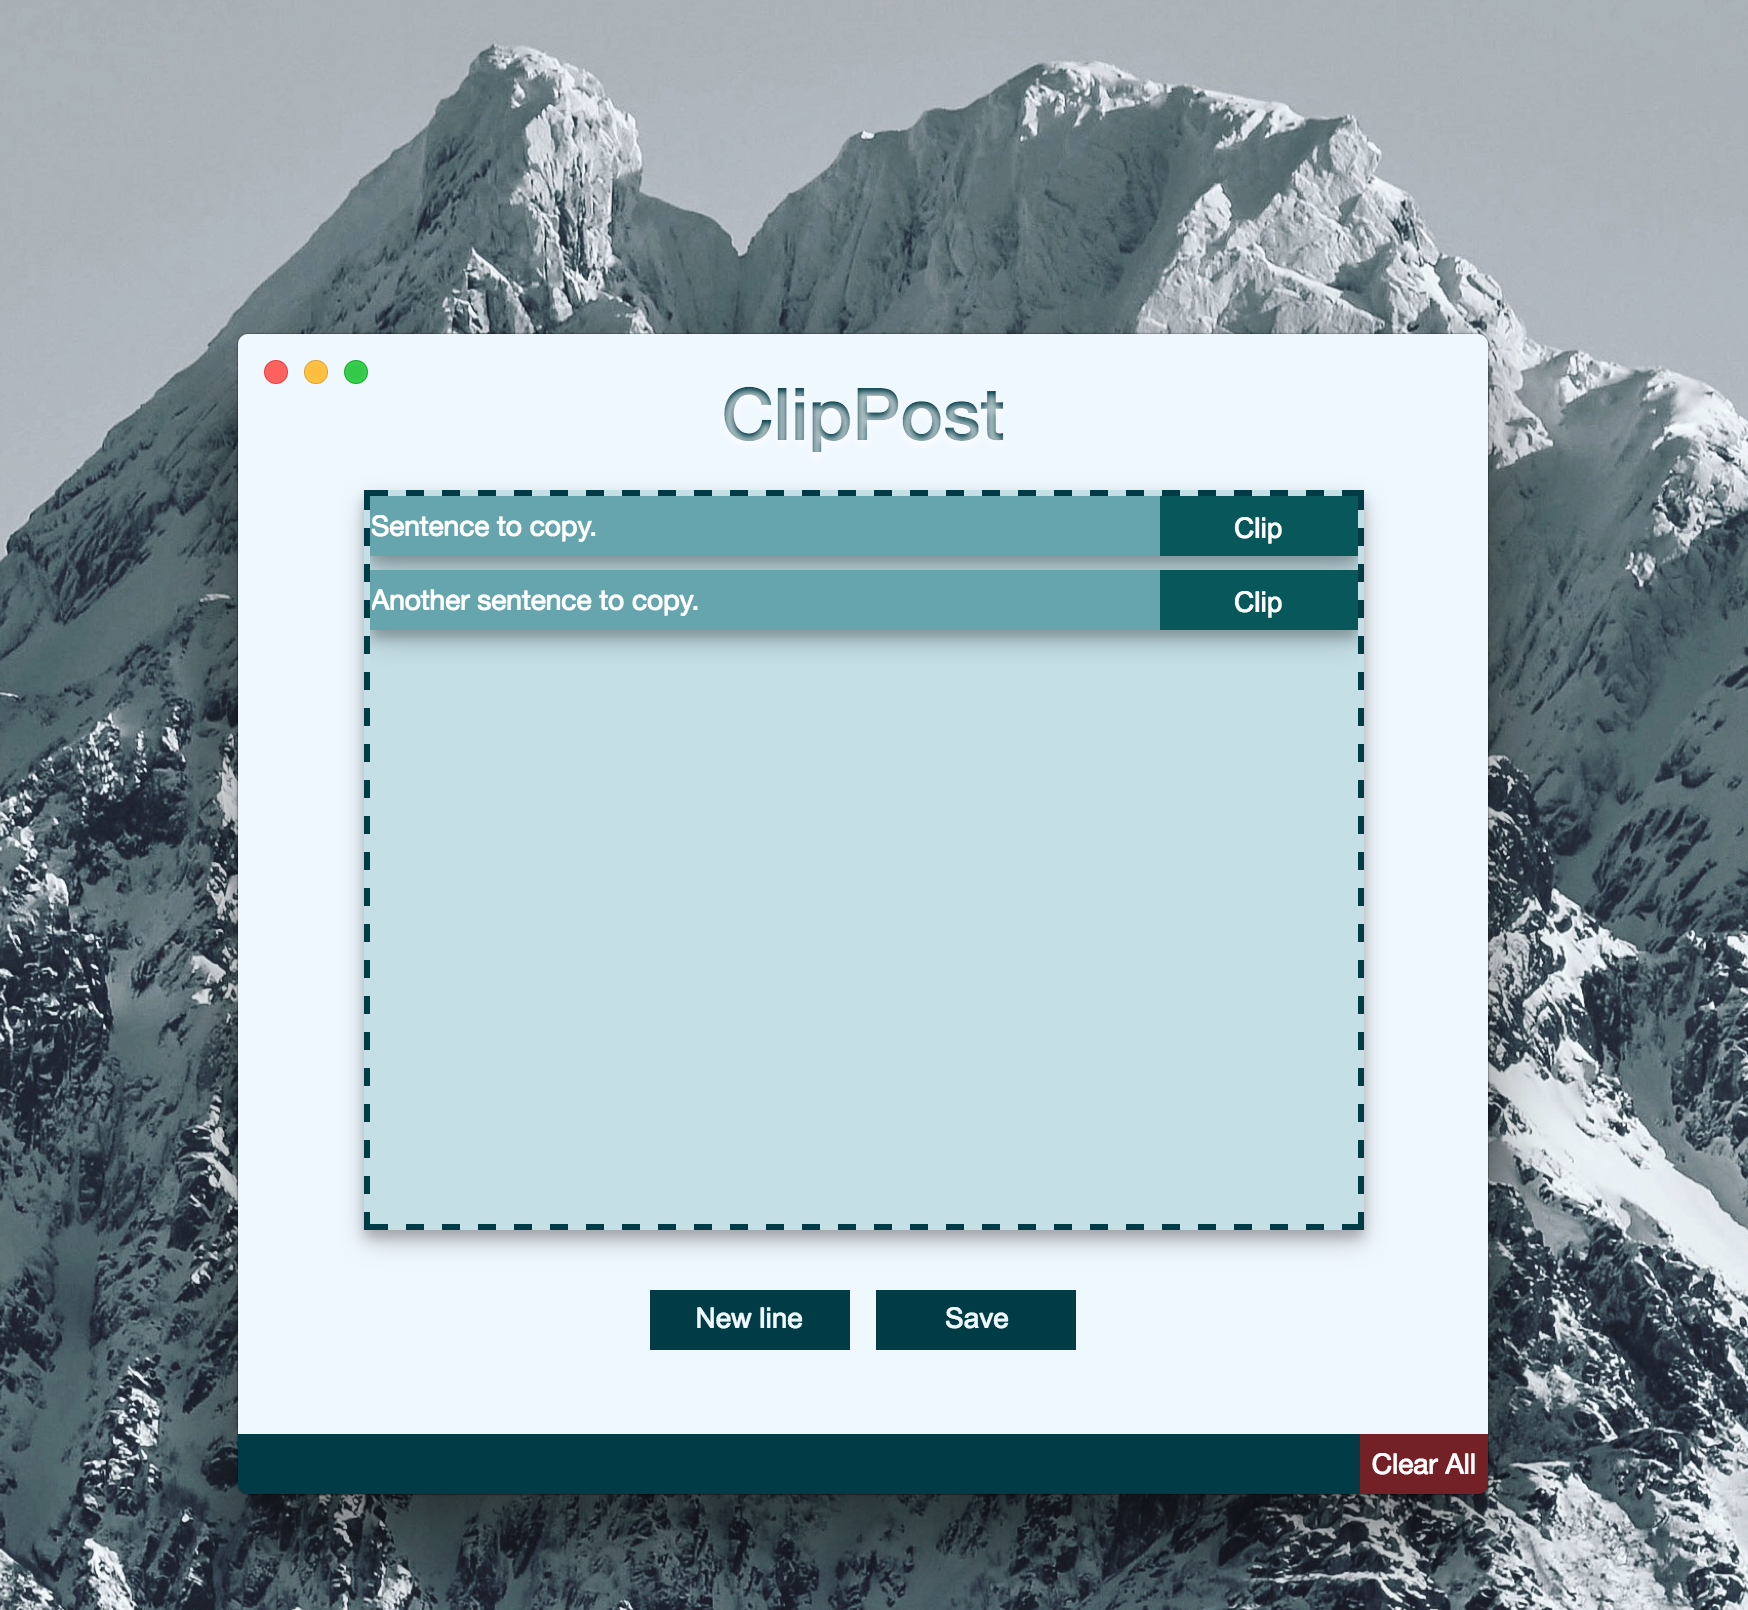
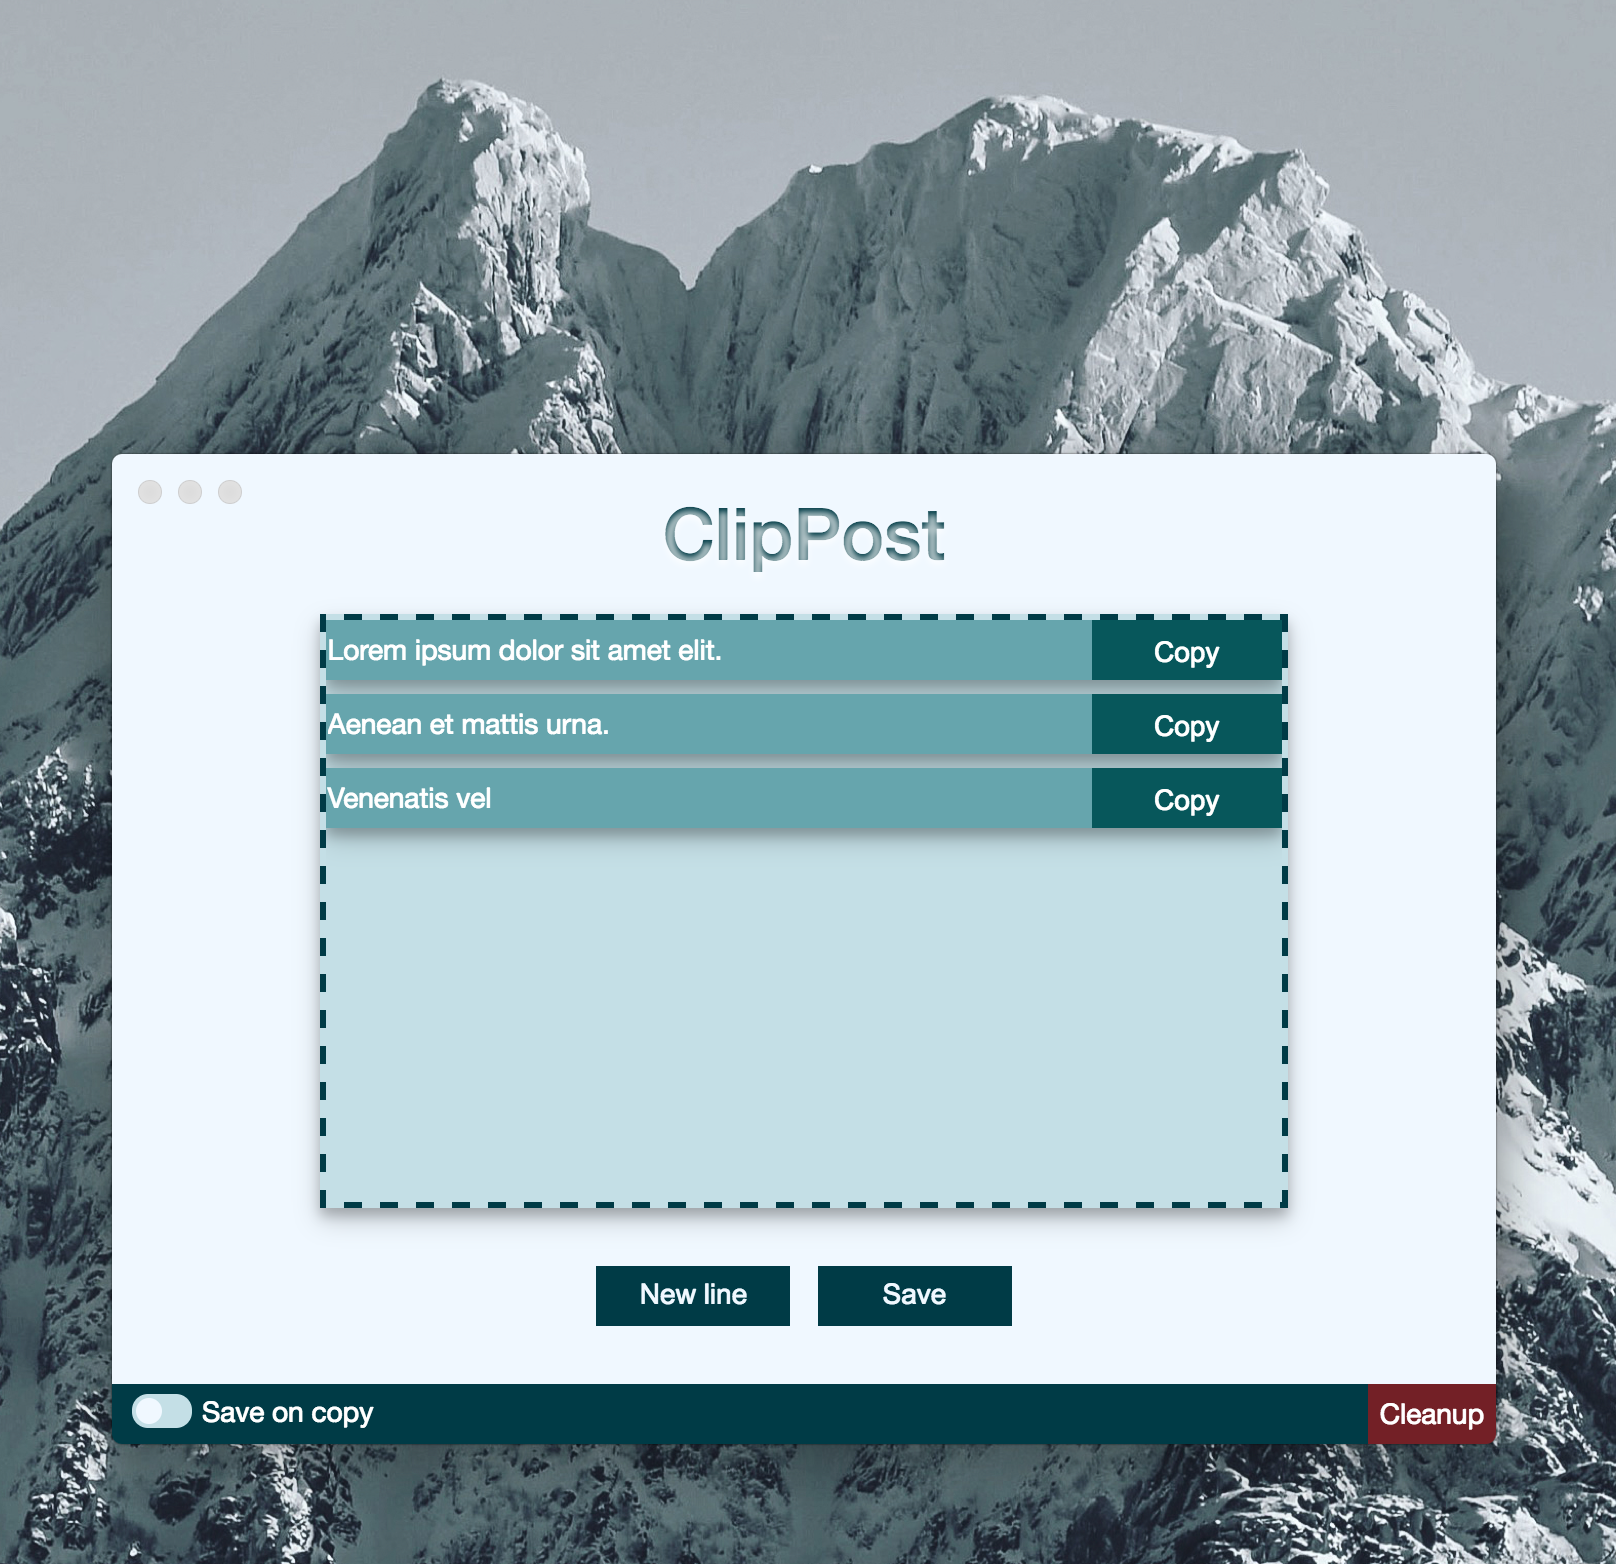
Minor changes.

diff --git a/back/main.js b/back/main.js
@@ -79,6 +79,8 @@ app.on('activate', () => {
     }
 });
 
+//IPC communication between windows
+
 var eventMainWindow;
 
 ipcMain.on('asynchronous-message-from-modal', (event, arg) => {
@@ -90,6 +92,3 @@ ipcMain.on('asynchronous-message-from-mainWindow', (event, arg) => {
     console.log(arg);
     eventMainWindow = event;
 });
-
-// In this file you can include the rest of your app's specific main process
-// code. You can also put them in separate files and require them here.

diff --git a/front/index.html b/front/index.html
@@ -36,7 +36,7 @@
 </body>
 <footer>
     <p id="footerText"></p>
-    <button onclick="showModal()" id="clearall"> Clear</button>
+    <button onclick="showModal()" id="clearall"> Cleanup </button>
     <label class="switch">
         <input type="checkbox" onclick="setAutoSave()">
         <div class="slider round"></div>
